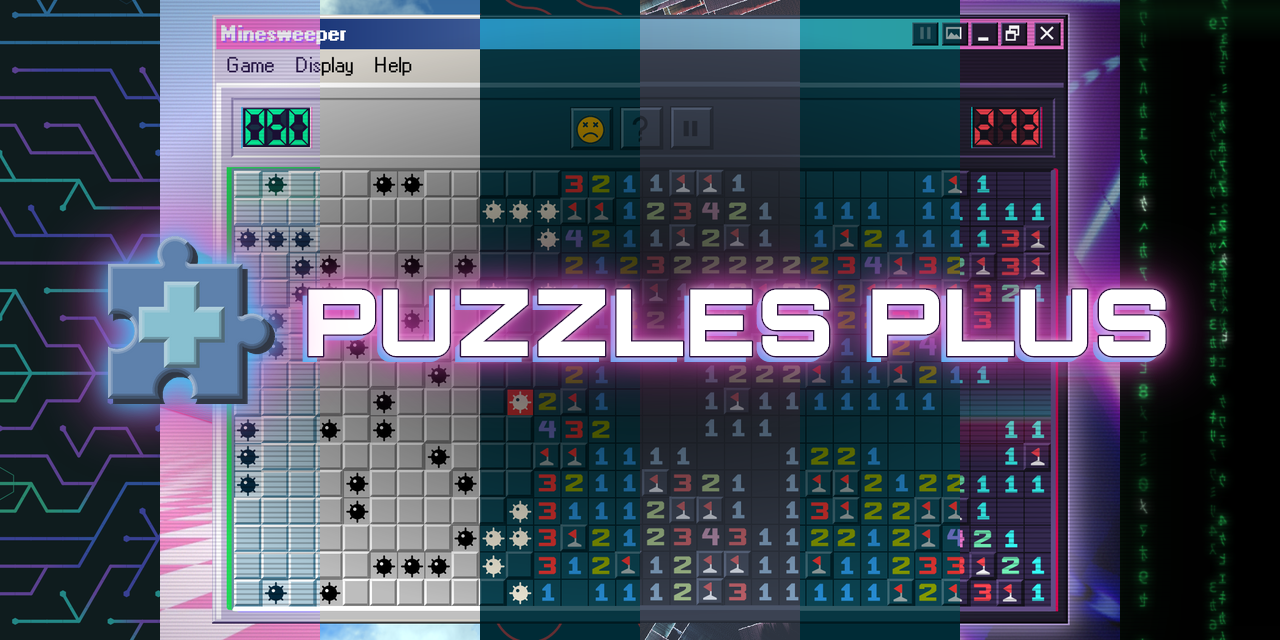
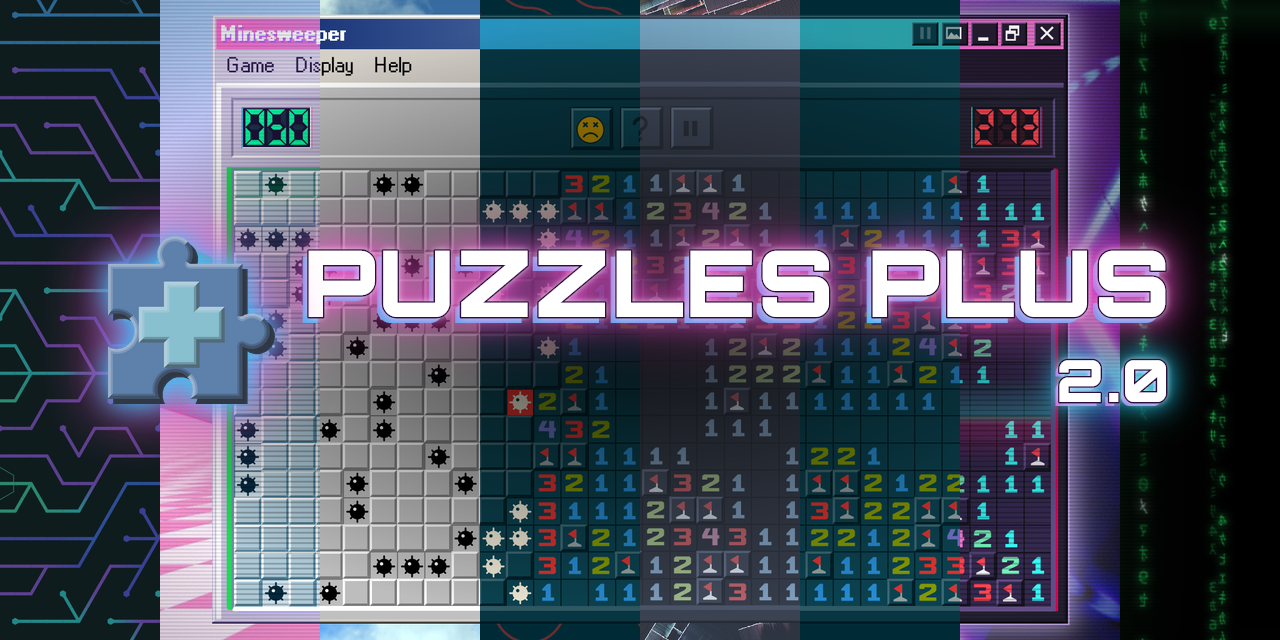
Social preview with a smaller 2.0 under the title, lined up with its right edge

Changed region(s): [[0.2188, 0.3438, 0.9375, 0.6875]]

diff --git a/docs/banner/wordmark.html b/docs/banner/wordmark.html
@@ -68,6 +68,10 @@
   .sub { font: 800 60px Orbitron; color: #fff; white-space: nowrap; margin-top: 10px;
          -webkit-text-stroke: 8px #2b0f3d; paint-order: stroke fill;
          text-shadow: 0 0 8px #fff8, 0 0 22px #1fd6ff, 0 0 40px #1fd6ff }
+  /*a smaller tag under the name, lined up with its right hand edge (?tag=2.0)*/
+  .tag { justify-self: end; font: 900 58px Orbitron; letter-spacing: 2px; color: #fff; white-space: nowrap; margin-top: 4px;
+         -webkit-text-stroke: 3px #2b0f3d; paint-order: stroke fill;
+         text-shadow: 0 0 8px #fff, 0 0 22px #1fd6ff, 0 0 40px #1fd6ff, -4px 4px 0 #ff4fd8 }
   .d .plate {
     position: relative; display: grid; justify-items: center; padding: 34px 56px 38px;
     background: #2e3440e6; border-radius: 28px; box-shadow: 0 0 0 3px #eceff433, 0 20px 50px #000c;
@@ -89,6 +93,7 @@
   ]
   const blurb = blurbs[+(q.get('blurb') || 0)]
   const sub = (q.get('sub') || '').toUpperCase()
+  const tag = q.get('tag') || ''
   const card = document.getElementById('card')
   card.classList.add(look)
   if (q.has('plain')) card.classList.add('plain')
@@ -99,7 +104,7 @@
   const html = {
     a: `<div class="mark">${icon}<div class="name">Puzzles <b>Plus</b></div></div>${text}`,
     b: `<div class="mark"><div class="bar">${icon}<div class="name">Puzzles Plus</div></div>${text}</div>`,
-    c: `<div class="mark">${icon}<div class="words"><div class="name">PUZZLES PLUS</div>${sub ? `<div class="sub">${sub}</div>` : ''}</div></div>${text}`,
+    c: `<div class="mark">${icon}<div class="words"><div class="name">PUZZLES PLUS</div>${sub ? `<div class="sub">${sub}</div>` : ''}${tag ? `<div class="tag">${tag}</div>` : ''}</div></div>${text}`,
     d: `<div class="plate"><div class="mark">${icon}<div class="name">${[...'Puzzles Plus'].map((ch, k) => `<span style="color:${hues[k]}">${ch}</span>`).join('')}</div></div>${text}</div>`,
   }[look]
   document.getElementById('wrap').outerHTML = html
